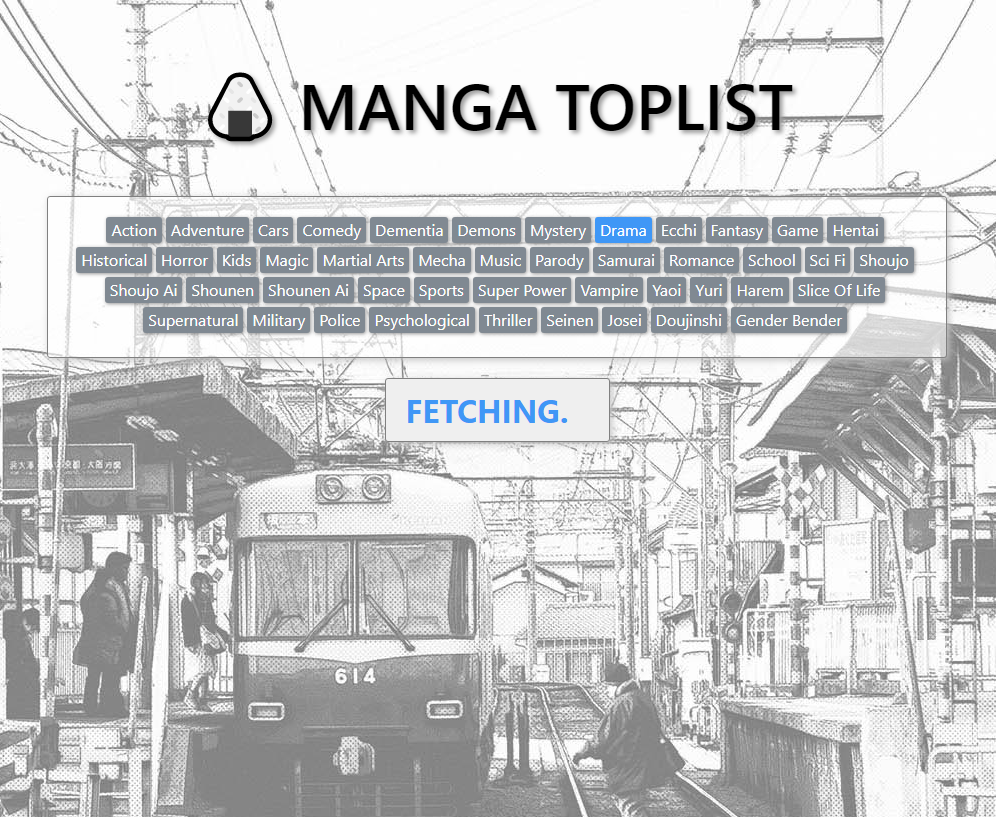
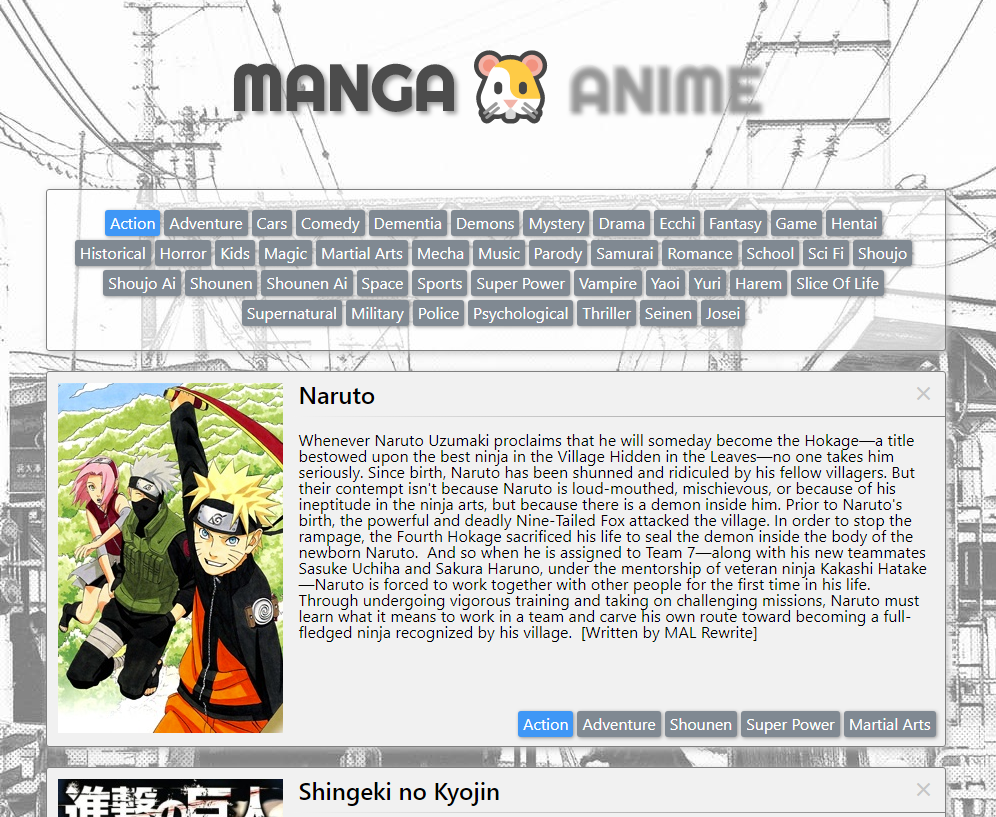
minor

diff --git a/src/App.js b/src/App.js
@@ -10,11 +10,20 @@ class App extends Component {
   changeGenre(id){
     this.setState({genre: id})
   }
+  changeToManga(){
+    this.setState({type: "manga"})
+  }
+  changeToAnime(){
+    this.setState({type: "anime"})
+  }
   render() {
     return (
-  
       <div className="App">
-        <h3 className="header"> <span role="img" aria-label="riceball">🍙</span> Manga toplist</h3>
+        <h3 className="header"> 
+        <p className={this.state.type === "manga"?"active":""} onClick={this.changeToManga.bind(this)}>Manga</p>
+        <p className="separator"></p>
+        <p className={this.state.type === "anime"?"active":""} onClick={this.changeToAnime.bind(this)}>Anime</p>
+        </h3>
         <Genres genre={this.state.genre} changeGenre={this.changeGenre.bind(this)}/>
         <Cards genre={this.state.genre} type={this.state.type}changeGenre={this.changeGenre.bind(this)}/>
       </div>

diff --git a/src/index.scss b/src/index.scss
@@ -1,6 +1,7 @@
 @import './sass/reset';
 @import './sass/breakpoints';
 @import 'components/Card';
+@import url('https://fonts.googleapis.com/css?family=Righteous');
 * {
   box-sizing: border-box;
 }
@@ -29,6 +30,7 @@ body {
   }
 }
 .header {
+ 
   font-weight: 600;
   font-size: 4rem;
   color: #404040;
@@ -37,8 +39,31 @@ body {
   text-shadow: 3px 3px 6px #9e9e9e;
   padding: 50px;
   text-transform: uppercase;
+  display: flex;
+  justify-content: center;
+  align-items: center;
+  p {
+    font-family: 'Righteous', cursive;
+    cursor: pointer;
+    color: #0000000a;
+  }
+  .active {
+    color: #4c4c4c;
+    transition: all .5s;
+
+  }
+  .separator {
+    margin: 10px 10px;
+    cursor: auto;
+    text-shadow: none;
+    color: #7f8992b8;
+    &:after{
+      content:"🐹"
+    }
+  }
   @include mobile {
      font-size: 3rem;
+     flex-direction: column;
    }
 }
 .input {

diff --git a/src/components/Cards.js b/src/components/Cards.js
@@ -23,7 +23,7 @@ removeData(id){
     this.setState({data})
 }
 componentWillReceiveProps (nprops){
-    if(this.state.genre !== nprops.genre){
+    if(this.state.genre !== nprops.genre || this.state.type !== nprops.type){
         this.setState({type: nprops.type, genre: nprops.genre, data: [], error: null, page: 1}, ()=>{
             this.getCards(nprops.type, nprops.genre, 1)
         })

diff --git a/src/components/genremap.js b/src/components/genremap.js
@@ -41,7 +41,5 @@ export default [
     { "psychological": 40 },
     { "thriller": 41 },
     { "seinen": 42 },
-    { "josei": 43 },
-    { "doujinshi": 43 },
-    { "gender bender": 44 }
+    { "josei": 43 }
   ];
